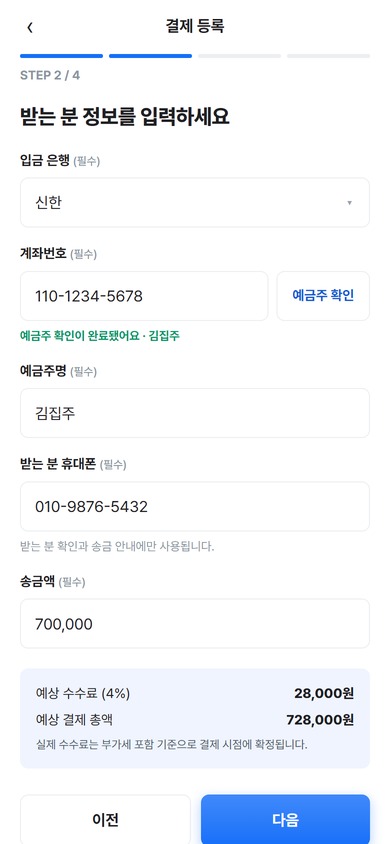
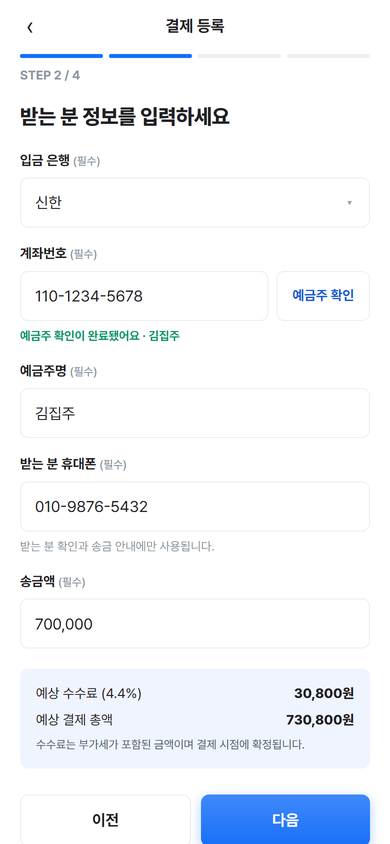
수수료 4% → 4.4%(부가세 포함) 전체 통일 · 이용가이드 목업 최신화
- 앱 등록 2단계 · 완료 화면 · 혜택 계산기 계산식 0.04 → 0.044
- FAQ · 공지 · 약관(홈페이지 · 앱) 문구, 가이드 · 앱 안내 예시 금액 730,800원
- 목업 4장(홈페이지 · 등록2 · 등록4 · 완료) 다시 캡처

Changed region(s): [[0.0923, 0.8009, 0.8308, 0.8934], [0.2769, 0.8009, 0.3692, 0.8318]]

diff --git a/화면/14_완료.html b/화면/14_완료.html
@@ -107,8 +107,8 @@ body{display:block !important; padding:0 !important; background:#EDF0F4 !importa
       <div class="rrow"><span class="l">송금 시점</span><span class="v" id="r시점">즉시 송금</span></div>
       <div class="rdiv"></div>
       <div class="rrow"><span class="l">신청 금액</span><span class="v" id="r금액">700,000원</span></div>
-      <div class="rrow"><span class="l">수수료 (4%)</span><span class="v" id="r수수료">28,000원</span></div>
-      <div class="rrow big"><span class="l">결제 예정 금액</span><span class="v" id="r총액">728,000원</span></div>
+      <div class="rrow"><span class="l">수수료 (4.4%)</span><span class="v" id="r수수료">30,800원</span></div>
+      <div class="rrow big"><span class="l">결제 예정 금액</span><span class="v" id="r총액">730,800원</span></div>
     </div>
 
     <div class="pend">
@@ -134,7 +134,7 @@ body{display:block !important; padding:0 !important; background:#EDF0F4 !importa
   넣기('r시점', 저장.시점 === '예약' ? ((저장.반복 === '매달' ? '매달 예약 · 첫 송금 ' : '예약 송금 · ') + (저장.예약일 || '')) : (저장.시점 ? '즉시 송금' : ''));
   var 금액 = Number(저장.금액) || 0;
   if (금액) {
-    var 비 = Math.round(금액 * 0.04);
+    var 비 = Math.round(금액 * 0.044);
     넣기('r금액', 금액.toLocaleString('ko-KR') + '원');
     넣기('r수수료', 비.toLocaleString('ko-KR') + '원');
     넣기('r총액', (금액 + 비).toLocaleString('ko-KR') + '원');

diff --git a/pay.html b/pay.html
@@ -103,7 +103,7 @@
           <div class="more-b">
             <div class="brow"><span>카드 포인트 적립 (0.5%)</span><b id="포인트">3,500원</b></div>
             <div class="brow"><span>월세 세액공제 (연 17%)</span><b id="공제">119,000원</b></div>
-            <div class="brow"><span>결제 수수료</span><b id="수수료" style="color:var(--danger)">-28,000원</b></div>
+            <div class="brow"><span>결제 수수료</span><b id="수수료" style="color:var(--danger)">-30,800원</b></div>
             <p class="note">실제 금액은 카드사·소득 구간에 따라 달라질 수 있어요.</p>
           </div>
         </details>
@@ -170,7 +170,7 @@ function 계산() {
   var 월세인가 = 항목 && 항목.dataset.n === '월세';
   var 포인트 = Math.round(n * 0.005);
   var 공제   = 월세인가 ? Math.round(n * 12 * 0.17 / 12) * 1 : 0;   /* 한 달분 기준 환산 */
-  var 수수료 = Math.round(n * 0.04);
+  var 수수료 = Math.round(n * 0.044);
   document.getElementById('포인트').textContent = 포인트.toLocaleString('ko-KR') + '원';
   document.getElementById('공제').textContent   = 월세인가 ? 공제.toLocaleString('ko-KR') + '원' : '해당 없음';
   document.getElementById('수수료').textContent = '-' + 수수료.toLocaleString('ko-KR') + '원';

diff --git a/화면/질문.html b/화면/질문.html
@@ -85,7 +85,7 @@
       <div class="gh">이용료 · 비용</div>
       <div class="acc">
         <details data-cat="비용"><summary><span class="q">Q.</span><span class="t">수수료는 얼마인가요?</span><iconify-icon class="arw" icon="mingcute:down-line"></iconify-icon></summary>
-          <div class="a">송금 금액의 <b>4%</b> (부가세 별도)입니다. 결제 전에 정확한 금액을 화면에서 미리 보여드려요. 숨은 비용은 없습니다.</div></details>
+          <div class="a">송금 금액의 <b>4.4%</b> (부가세 포함)입니다. 결제 전에 정확한 금액을 화면에서 미리 보여드려요. 숨은 비용은 없습니다.</div></details>
         <details data-cat="비용"><summary><span class="q">Q.</span><span class="t">월세 세액공제는 어떻게 받나요?</span><iconify-icon class="arw" icon="mingcute:down-line"></iconify-icon></summary>
           <div class="a">카드로 낸 월세도 <b>현금영수증과 같이</b> 세액공제 대상입니다. 연말정산 때 쓸 증빙은 화면에서 바로 내려받을 수 있어요. 소득 구간에 따라 최대 17%까지 환급됩니다.</div></details>
       </div>

diff --git a/faq.html b/faq.html
@@ -97,7 +97,7 @@
         <h2 class="fgt">이용료 · 비용</h2>
         <div class="acc">
           <details><summary><span class="q">Q.</span><span class="t">수수료는 얼마인가요?</span><iconify-icon class="arw" icon="mingcute:down-line"></iconify-icon></summary>
-            <div class="a">송금 금액의 <b>4%</b> (부가세 별도)입니다. 결제 전에 정확한 금액을 화면에서 미리 보여드려요. 숨은 비용은 없습니다.</div></details>
+            <div class="a">송금 금액의 <b>4.4%</b> (부가세 포함)입니다. 결제 전에 정확한 금액을 화면에서 미리 보여드려요. 숨은 비용은 없습니다.</div></details>
           <details><summary><span class="q">Q.</span><span class="t">월세 세액공제는 어떻게 받나요?</span><iconify-icon class="arw" icon="mingcute:down-line"></iconify-icon></summary>
             <div class="a">카드로 낸 월세도 <b>현금영수증과 같이</b> 세액공제 대상입니다. 연말정산 때 쓸 증빙은 화면에서 바로 내려받을 수 있어요. 소득 구간에 따라 최대 17%까지 환급됩니다.</div></details>
         </div>

diff --git a/약관.html b/약관.html
@@ -65,7 +65,7 @@
 <h3>제5조 (이용계약의 성립)</h3>
 <p>이용계약은 이용자가 약관에 동의하고 회사가 정한 절차에 따라 가입을 신청하면 회사가 이를 승낙함으로써 성립합니다. 회사는 실명이 아니거나 타인 명의를 도용한 신청 등을 거절할 수 있습니다.</p>
 <h3>제6조 (수수료)</h3>
-<p>서비스 수수료는 송금 금액의 4%(부가세 별도)입니다. 수수료는 결제 전에 화면에 표시되며 결제 시점에 확정됩니다.</p>
+<p>서비스 수수료는 송금 금액의 4.4%(부가세 포함)입니다. 수수료는 결제 전에 화면에 표시되며 결제 시점에 확정됩니다.</p>
 <h3>제7조 (결제와 송금)</h3>
 <p>송금은 서류 검토와 승인이 끝난 뒤 진행됩니다. 즉시 송금은 승인 후 바로 진행되고 예약 송금은 이용자가 정한 날짜에 진행됩니다. 회사는 여신전문금융업법 등 관련 법에 어긋나는 거래를 중단할 수 있습니다.</p>
 <h3>제8조 (취소와 환불)</h3>

diff --git a/화면/약관.html b/화면/약관.html
@@ -61,7 +61,7 @@
 <h3>제5조 (이용계약의 성립)</h3>
 <p>이용계약은 이용자가 약관에 동의하고 회사가 정한 절차에 따라 가입을 신청하면 회사가 이를 승낙함으로써 성립합니다. 회사는 실명이 아니거나 타인 명의를 도용한 신청 등을 거절할 수 있습니다.</p>
 <h3>제6조 (수수료)</h3>
-<p>서비스 수수료는 송금 금액의 4%(부가세 별도)입니다. 수수료는 결제 전에 화면에 표시되며 결제 시점에 확정됩니다.</p>
+<p>서비스 수수료는 송금 금액의 4.4%(부가세 포함)입니다. 수수료는 결제 전에 화면에 표시되며 결제 시점에 확정됩니다.</p>
 <h3>제7조 (결제와 송금)</h3>
 <p>송금은 서류 검토와 승인이 끝난 뒤 진행됩니다. 즉시 송금은 승인 후 바로 진행되고 예약 송금은 이용자가 정한 날짜에 진행됩니다. 회사는 여신전문금융업법 등 관련 법에 어긋나는 거래를 중단할 수 있습니다.</p>
 <h3>제8조 (취소와 환불)</h3>

diff --git a/화면/등록2_정보.html b/화면/등록2_정보.html
@@ -95,9 +95,9 @@
     </div>
 
     <div class="est" id="예상" style="display:none">
-      <div class="er"><span>예상 수수료 (4%)</span><b id="수수료">0원</b></div>
+      <div class="er"><span>예상 수수료 (4.4%)</span><b id="수수료">0원</b></div>
       <div class="er"><span>예상 결제 총액</span><b id="총액">0원</b></div>
-      <div class="es">실제 수수료는 부가세 포함 기준으로 결제 시점에 확정됩니다.</div>
+      <div class="es">수수료는 부가세가 포함된 금액이며 결제 시점에 확정됩니다.</div>
     </div>
 
     <div class="hint err" id="오류" style="display:none"></div>
@@ -123,7 +123,7 @@
     $('금액').value = n ? n.toLocaleString('ko-KR') : '';
     $('예상').style.display = n ? 'block' : 'none';
     if (n) {
-      var 비 = Math.round(n * 0.04);
+      var 비 = Math.round(n * 0.044);
       $('수수료').textContent = 비.toLocaleString('ko-KR') + '원';
       $('총액').textContent = (n + 비).toLocaleString('ko-KR') + '원';
     }

diff --git a/guide.html b/guide.html
@@ -575,7 +575,7 @@
             <div class="mk-sum">
               <div><span>받는 분</span><b>김집주 · KB국민</b></div>
               <div><span>입금액</span><b>700,000원</b></div>
-              <div><span>카드 결제</span><b>신한카드 · 728,000원</b></div>
+              <div><span>카드 결제</span><b>신한카드 · 730,800원</b></div>
               <div><span>걸린 시간</span><b>접수 후 11분</b></div>
             </div>
             <div class="mk-btn" style="margin-top:auto">홈으로</div>

diff --git a/화면/안내.html b/화면/안내.html
@@ -476,7 +476,7 @@
             <div class="mk-sum">
               <div><span>받는 분</span><b>김집주 · KB국민</b></div>
               <div><span>입금액</span><b>700,000원</b></div>
-              <div><span>카드 결제</span><b>신한카드 · 728,000원</b></div>
+              <div><span>카드 결제</span><b>신한카드 · 730,800원</b></div>
               <div><span>걸린 시간</span><b>접수 후 11분</b></div>
             </div>
             <div class="mk-btn" style="margin-top:auto">홈으로</div>

diff --git a/notice.html b/notice.html
@@ -141,7 +141,7 @@
               <li>카드마다 <b>할부 개월을 따로</b> 정할 수 있어요</li>
             </ul>
 
-            수수료는 똑같이 4%이고 카드사 무이자 행사도 그대로 적용됩니다.</div>
+            수수료는 똑같이 4.4%이고 카드사 무이자 행사도 그대로 적용됩니다.</div>
           <div class="nback"><a class="btn btn-line" href="#">목록으로</a></div>
         </article>
         <article class="npost" id="n8">

diff --git a/화면/공지.html b/화면/공지.html
@@ -153,7 +153,7 @@
               <li>카드마다 <b>할부 개월을 따로</b> 정할 수 있어요</li>
             </ul>
 
-            수수료는 똑같이 4%이고 카드사 무이자 행사도 그대로 적용됩니다.</div>
+            수수료는 똑같이 4.4%이고 카드사 무이자 행사도 그대로 적용됩니다.</div>
           <div class="nback"><a class="btn btn-line" href="#">목록으로</a></div>
         </article>
         <article class="npost" id="n8">
